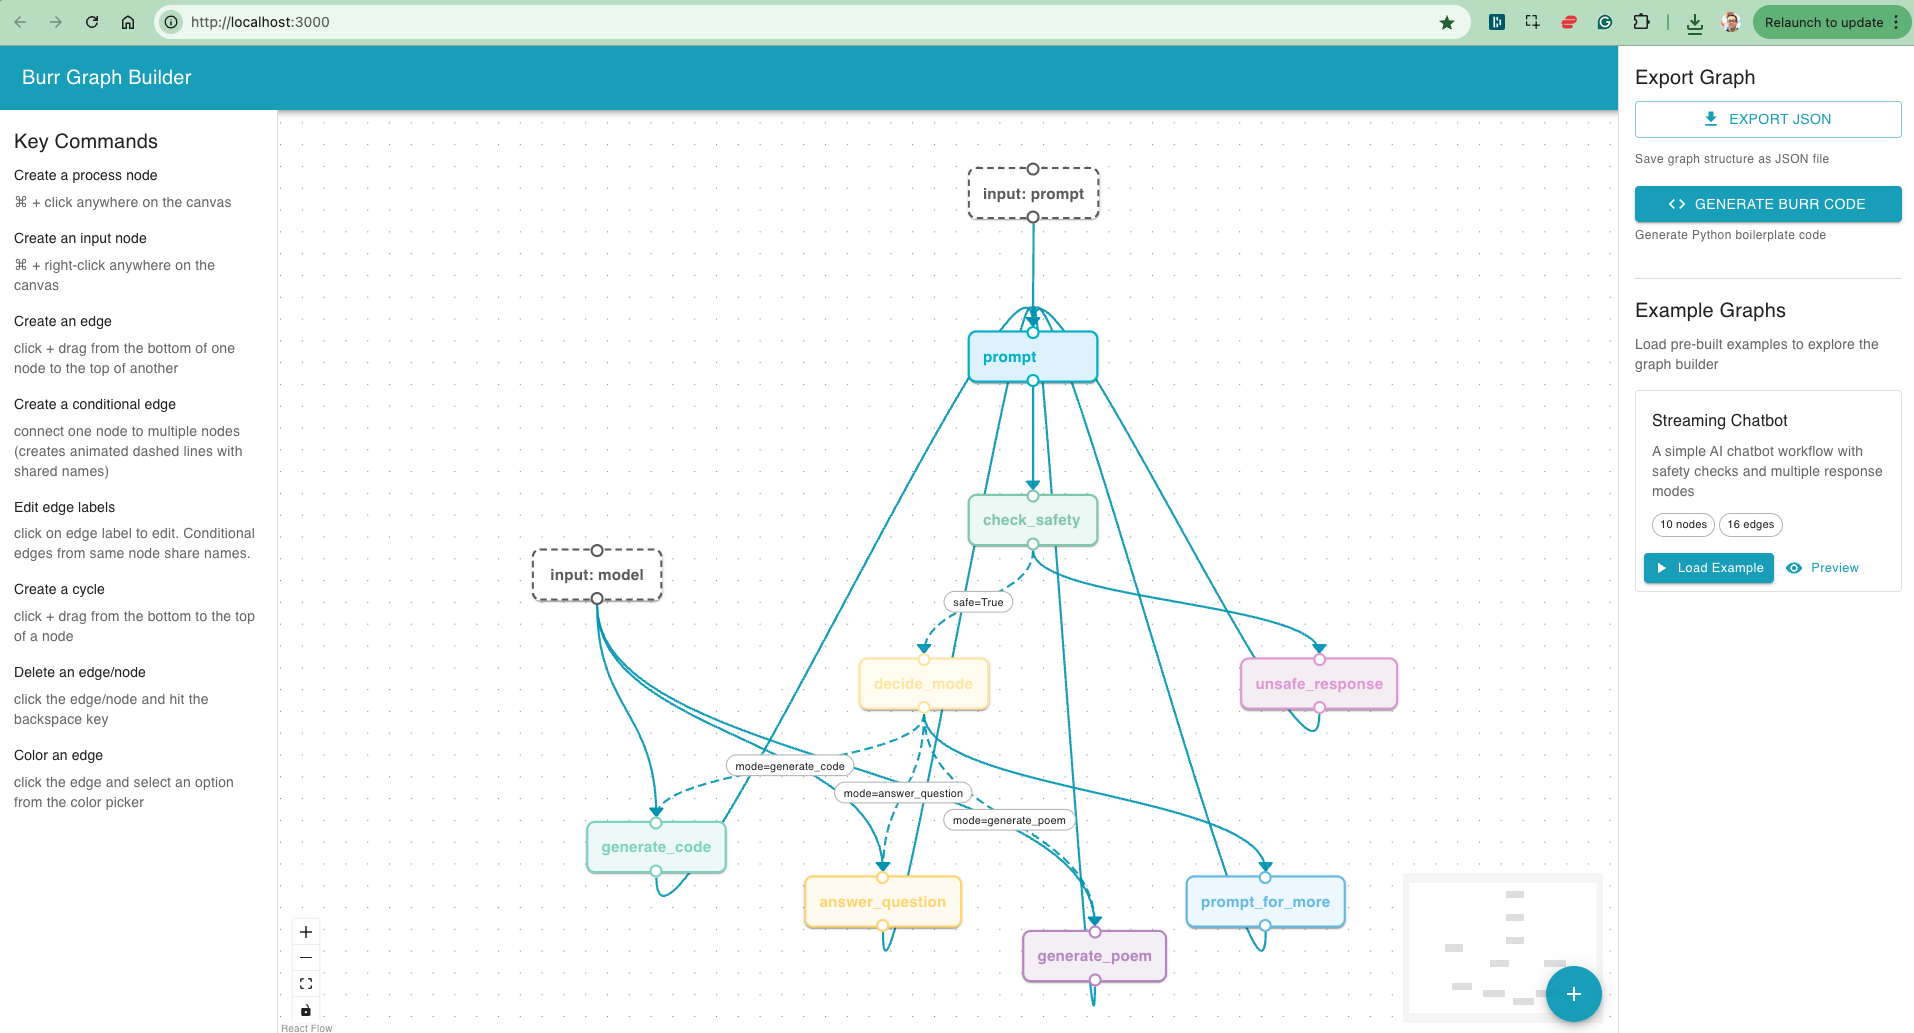
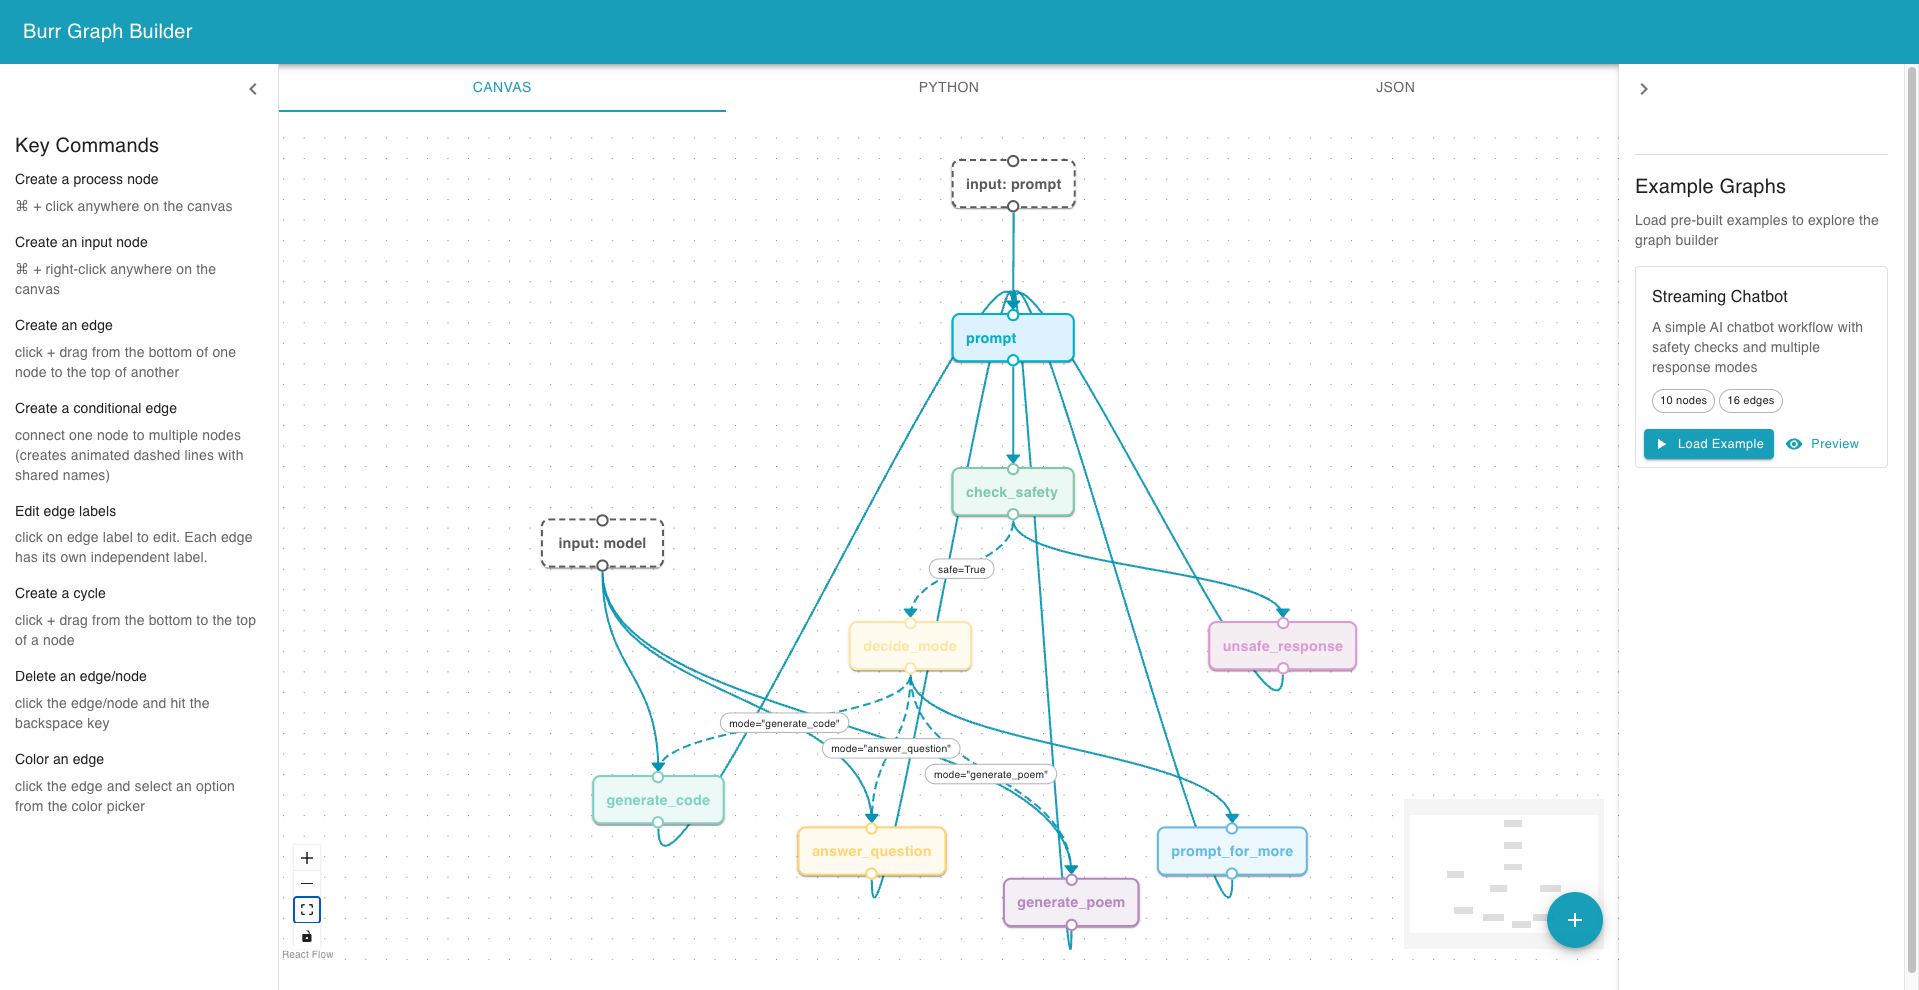
rename process node to action nodes

diff --git a/src/components/GraphBuilder.tsx b/src/components/GraphBuilder.tsx
@@ -94,10 +94,10 @@ const initialEdges: Edge[] = [];
 
 // Available node templates
 const nodeTemplates = [
-  { type: 'start', label: 'Start Node', icon: <TreeIcon />, color: '#4caf50' },
-  { type: 'process', label: 'Process Node', icon: <SettingsIcon />, color: '#429dbce6' },
-  { type: 'decision', label: 'Decision Node', icon: <HelpIcon />, color: '#ff9800' },
-  { type: 'end', label: 'End Node', icon: <WarningIcon />, color: '#f44336' },
+  // { type: 'start', label: 'Start Node', icon: <TreeIcon />, color: '#4caf50' },
+  { type: 'action', label: 'Action Node', icon: <SettingsIcon />, color: '#429dbce6' },
+  { type: 'input', label: 'Input Node', icon: <HelpIcon />, color: '#ff9800' },
+  // { type: 'end', label: 'End Node', icon: <WarningIcon />, color: '#f44336' },
 ];
 
 interface NodeDialogData {
@@ -123,7 +123,7 @@ const GraphBuilder: React.FC = () => {
   const [nodeDialogData, setNodeDialogData] = useState<NodeDialogData>({
     label: '',
     description: '',
-    nodeType: 'process',
+    nodeType: 'action',
     icon: 'settings',
   });
   const [tabIndex, setTabIndex] = useState(0);
@@ -171,10 +171,10 @@ const GraphBuilder: React.FC = () => {
     if (event.metaKey || event.ctrlKey) {
       // Determine node type based on mouse button
       const isRightClick = event.button === 2 || event.type === 'contextmenu';
-      const nodeType = isRightClick ? 'input' : 'process';
+      const nodeType = isRightClick ? 'input' : 'action';
       const nodeLabel = isRightClick ? `Input ${nodes.length + 1}` : `Node ${nodes.length + 1}`;
       
-      // Cmd/Ctrl + click to create a process node
+      // Cmd/Ctrl + click to create a action node
       // Cmd/Ctrl + right-click to create an input node
       let position;
       
@@ -420,7 +420,7 @@ const GraphBuilder: React.FC = () => {
     setNodeDialogData({
       label: '',
       description: '',
-      nodeType: 'process',
+      nodeType: 'action',
       icon: 'settings',
     });
   }, [nodeDialogData, setNodes, nodes.length, handleDeleteNode, handleLabelChange]);
@@ -521,7 +521,7 @@ const GraphBuilder: React.FC = () => {
           </Typography>
           <Box sx={{ mb: 2 }}>
             <Typography variant="subtitle2" gutterBottom>
-              Create a process node
+              Create an action node
             </Typography>
             <Typography variant="body2" color="text.secondary" sx={{ mb: 1 }}>
               ⌘ + click anywhere on the canvas

diff --git a/src/data/examples.ts b/src/data/examples.ts
@@ -6,7 +6,7 @@ export interface ExampleGraph {
   nodes: Array<{
     id: string;
     label: string;
-    nodeType: 'input' | 'process' ;
+    nodeType: 'input' | 'action' ;
     position: { x: number; y: number };
     description?: string;
   }>;
@@ -42,49 +42,49 @@ export const streamingChatbotWorkflow: ExampleGraph = {
     {
       id: 'prompt',
       label: 'prompt',
-      nodeType: 'process',
+      nodeType: 'action',
       position: { x: 500, y: 200 }
     },
     {
       id: 'check_safety',
       label: 'check_safety',
-      nodeType: 'process',
+      nodeType: 'action',
       position: { x: 500, y: 350 }
     },
     {
       id: 'decide_mode',
       label: 'decide_mode',
-      nodeType: 'process',
+      nodeType: 'action',
       position: { x: 400, y: 500 }
     },
     {
       id: 'unsafe_response',
       label: 'unsafe_response',
-      nodeType: 'process',
+      nodeType: 'action',
       position: { x: 750, y: 500 }
     },
     {
       id: 'generate_code',
       label: 'generate_code',
-      nodeType: 'process',
+      nodeType: 'action',
       position: { x: 150, y: 650 }
     },
     {
       id: 'answer_question',
       label: 'answer_question',
-      nodeType: 'process',
+      nodeType: 'action',
       position: { x: 350, y: 700 }
     },
     {
       id: 'generate_poem',
       label: 'generate_poem',
-      nodeType: 'process',
+      nodeType: 'action',
       position: { x: 550, y: 750 }
     },
     {
       id: 'prompt_for_more',
       label: 'prompt_for_more',
-      nodeType: 'process',
+      nodeType: 'action',
       position: { x: 700, y: 700 }
     }
   ],

diff --git a/src/utils/BurrCodeGenerator.ts b/src/utils/BurrCodeGenerator.ts
@@ -18,14 +18,14 @@ from burr.core.graph import GraphBuilder`;
   }
 
   private static generateActions(nodes: BurrGraphJSON['nodes'], edges: BurrGraphJSON['edges']): string {
-    // Only generate actions for process nodes, not input nodes
+    // Only generate actions for action nodes, not input nodes
     const processNodes = nodes.filter(node => node.nodeType !== 'input');
     
     const actionFunctions = processNodes.map(node => {
       const functionName = this.sanitizeNodeName(node.label);
       const description = node.description ? `\n    """${node.description}"""` : '';
       
-      // Find input nodes that connect to this process node
+      // Find input nodes that connect to this action node
       const inputParams = this.getInputParameters(node.id, nodes, edges);
       const paramString = inputParams.length > 0 
         ? `state: State, ${inputParams.join(', ')}`
@@ -73,7 +73,7 @@ def ${functionName}(${paramString}) -> Tuple[dict, State]:${stubDocstring}
   }
 
   private static generateGraphFunction(graphData: BurrGraphJSON): string {
-    // Only include process nodes in actions, not input nodes
+    // Only include action nodes in actions, not input nodes
     const processNodes = graphData.nodes.filter(node => node.nodeType !== 'input');
     const actionNames = processNodes.map(node => this.sanitizeNodeName(node.label));
     const transitions = this.generateTransitions(graphData);

diff --git a/src/utils/GraphExporter.ts b/src/utils/GraphExporter.ts
@@ -11,7 +11,7 @@ export interface BurrGraphJSON {
     id: string;
     label: string;
     description?: string;
-    nodeType: 'input' | 'start' | 'process' | 'decision' | 'end';
+    nodeType: 'input' | 'action' ;
     position: { x: number; y: number };
   }>;
   edges: Array<{
@@ -36,7 +36,7 @@ export class GraphExporter {
         id: node.id,
         label: (node.data.label as string) || 'Unnamed Node',
         description: (node.data.description as string) || undefined,
-        nodeType: this.mapNodeType((node.data.nodeType as string) || 'process'),
+        nodeType: this.mapNodeType((node.data.nodeType as string) || 'action'),
         position: node.position,
       })),
       edges: edges.map(edge => ({
@@ -51,18 +51,12 @@ export class GraphExporter {
     return exportData;
   }
 
-  private static mapNodeType(nodeType: string): 'input' | 'start' | 'process' | 'decision' | 'end' {
+  private static mapNodeType(nodeType: string): 'input' | 'action' {
     switch (nodeType) {
       case 'input':
         return 'input';
-      case 'start':
-        return 'start';
-      case 'decision':
-        return 'decision';
-      case 'end':
-        return 'end';
       default:
-        return 'process';
+        return 'action';
     }
   }
 

diff --git a/README.md b/README.md
@@ -4,6 +4,8 @@ A visual graph builder for creating [Burr](https://github.com/DAGWorks-Inc/burr)
 
 ![Burr Graph Builder Screenshot](./images/chat_example_graph.png)
 
+![Burr Graph Builder Python Tab](./images/python_tab.png)
+
 ## Generates the boilerplate Burr Graph in Python 
 
 ```python
@@ -68,11 +70,11 @@ def create_burr_graph():
         )
         .with_transitions(
             ("prompt", "check_safety", default),
-            ("check_safety", "decide_mode", when(safe_true=True)),
+            ("check_safety", "decide_mode", when(safe=True)),
             ("check_safety", "unsafe_response", default),
-            ("decide_mode", "generate_code", when(mode_generate_code=True)),
-            ("decide_mode", "answer_question", when(mode_answer_question=True)),
-            ("decide_mode", "generate_poem", when(mode_generate_poem=True)),
+            ("decide_mode", "generate_code", when(mode="generate_code")),
+            ("decide_mode", "answer_question", when(mode="answer_question")),
+            ("decide_mode", "generate_poem", when(mode="generate_poem")),
             ("decide_mode", "prompt_for_more", default),
             ("generate_code", "prompt", default),
             ("answer_question", "prompt", default),
@@ -94,14 +96,14 @@ if __name__ == "__main__":
 ## Features
 
 - **Visual Workflow Design**: Create Burr workflows using an intuitive ReactFlow-based interface
-- **Node Types**: Support for input nodes (parameters) and process nodes (actions)
+- **Node Types**: Support for input nodes (parameters) and action nodes
 - **Smart Code Generation**: Automatically generates Python code with proper action signatures including input parameters
 - **Example Gallery**: Pre-built workflow examples to get you started quickly
 - **Real-time Editing**: Edit node labels and descriptions directly in the graph
 - **Export Options**: Export workflows as Python code or JSON format
 - **Input Node Intelligence**: Input nodes are treated as parameters to target actions, not separate actions
 - **Visual Flow Indicators**: Edges display arrow heads pointing to target nodes for clear flow direction
-- **Keyboard Shortcuts**: Quick node creation with Cmd+Click (process nodes) and Cmd+Right-Click (input nodes)
+- **Keyboard Shortcuts**: Quick node creation with Cmd+Click (action nodes) and Cmd+Right-Click (input nodes)
 
 ## Getting Started
 
@@ -141,7 +143,7 @@ npm start
 ### Creating a New Workflow
 
 1. **Start Building**: Begin by adding nodes to the canvas using keyboard shortcuts
-2. **Add Process Nodes**: Cmd+Click anywhere on the canvas to create process nodes (Burr actions)
+2. **Add Action Nodes**: Cmd+Click anywhere on the canvas to create action nodes (Burr actions)
 3. **Add Input Nodes**: Cmd+Right-Click anywhere on the canvas to create input nodes (parameters)
 4. **Connect Nodes**: Draw edges between nodes to define the workflow flow (edges show arrow heads pointing to target nodes)
 5. **Add Conditions**: For conditional edges, add condition labels for decision logic
@@ -154,7 +156,7 @@ npm start
 - **Naming Convention**: Use format like "input: prompt" or "input: model"
 - **Code Generation**: Become parameters in the target action function signature
 
-#### Process Nodes  
+#### Action Nodes (Burr Actions)
 - **Appearance**: Colored solid rectangles with pastel backgrounds
 - **Purpose**: Represent Burr actions that perform business logic
 - **Code Generation**: Become `@action` decorated functions
@@ -171,7 +173,7 @@ The application includes a streaming chatbot workflow example that demonstrates:
 
 When you export your workflow, the application generates:
 
-1. **Action Functions**: Each process node becomes a Burr action with proper parameters:
+1. **Action Functions**: Each action node becomes a Burr action with proper parameters:
 ```python
 @action(reads=[], writes=[])
 def prompt(state: State, prompt: str) -> Tuple[dict, State]:
@@ -201,10 +203,10 @@ def create_burr_graph():
 
 ### Input Nodes
 - Use descriptive names like "input: user_message" or "input: model_name"
-- Connect input nodes directly to the process nodes that need those parameters
+- Connect input nodes directly to the action nodes that need those parameters
 - Input nodes don't need outgoing connections to multiple nodes
 
-### Process Nodes  
+### Action Nodes (Burr Actions)
 - Use clear, action-oriented names like "validate_input", "generate_response"
 - Add descriptions to document what each action should do
 - Consider the data flow between actions
